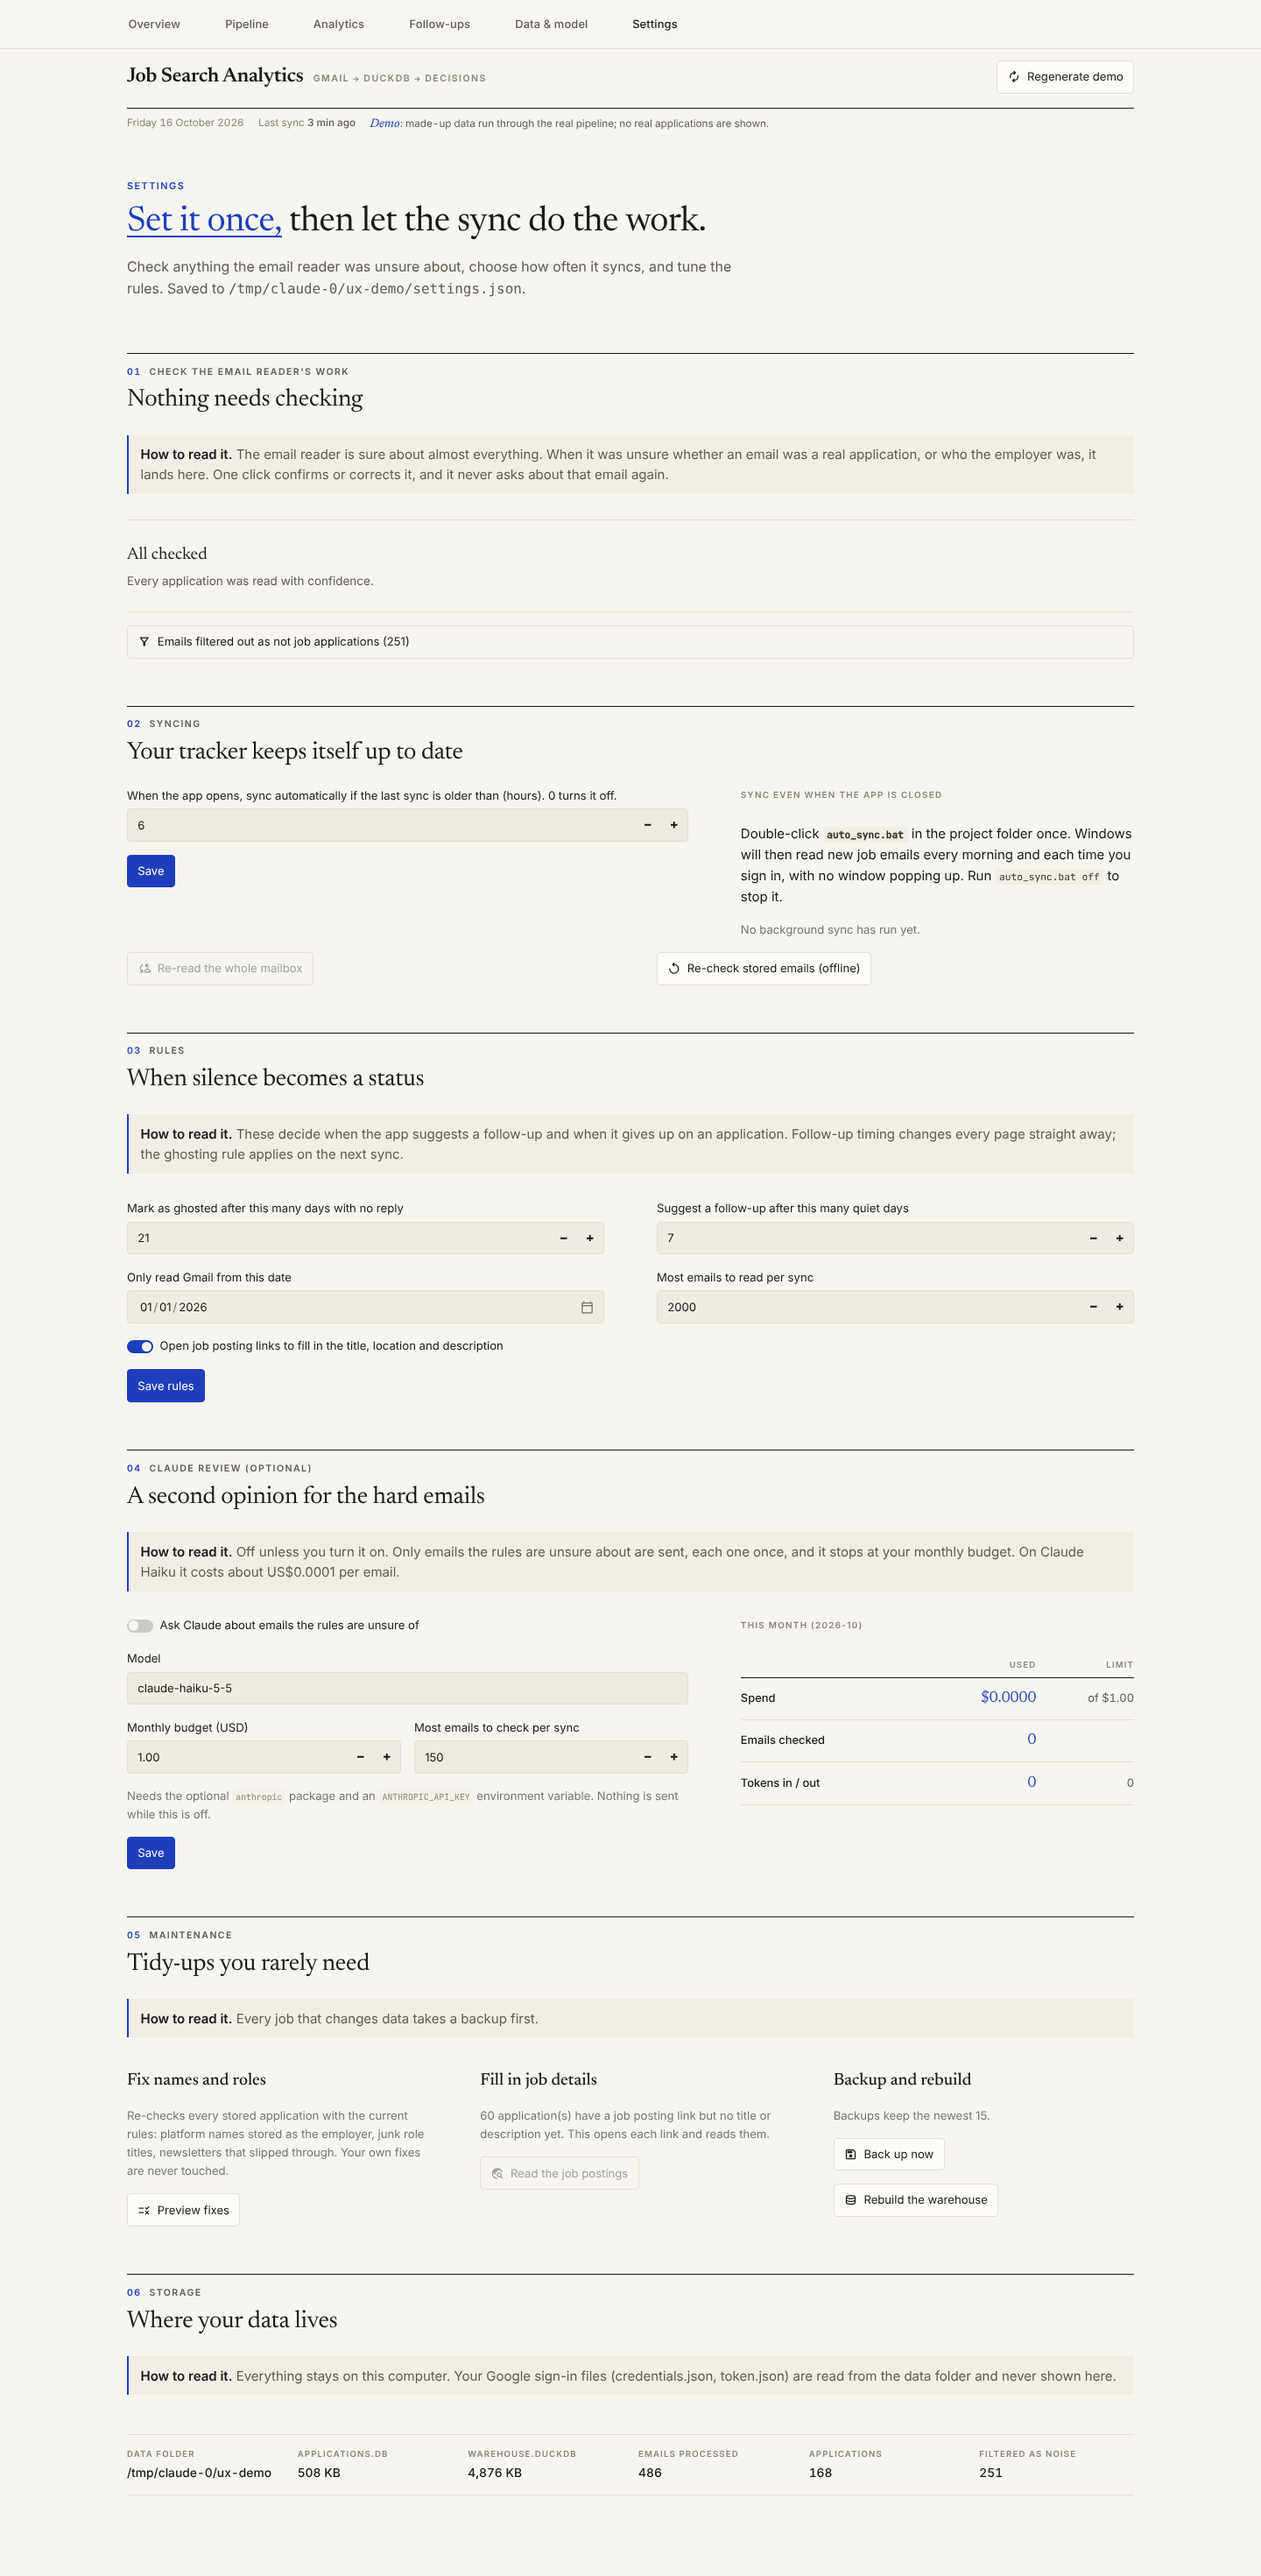
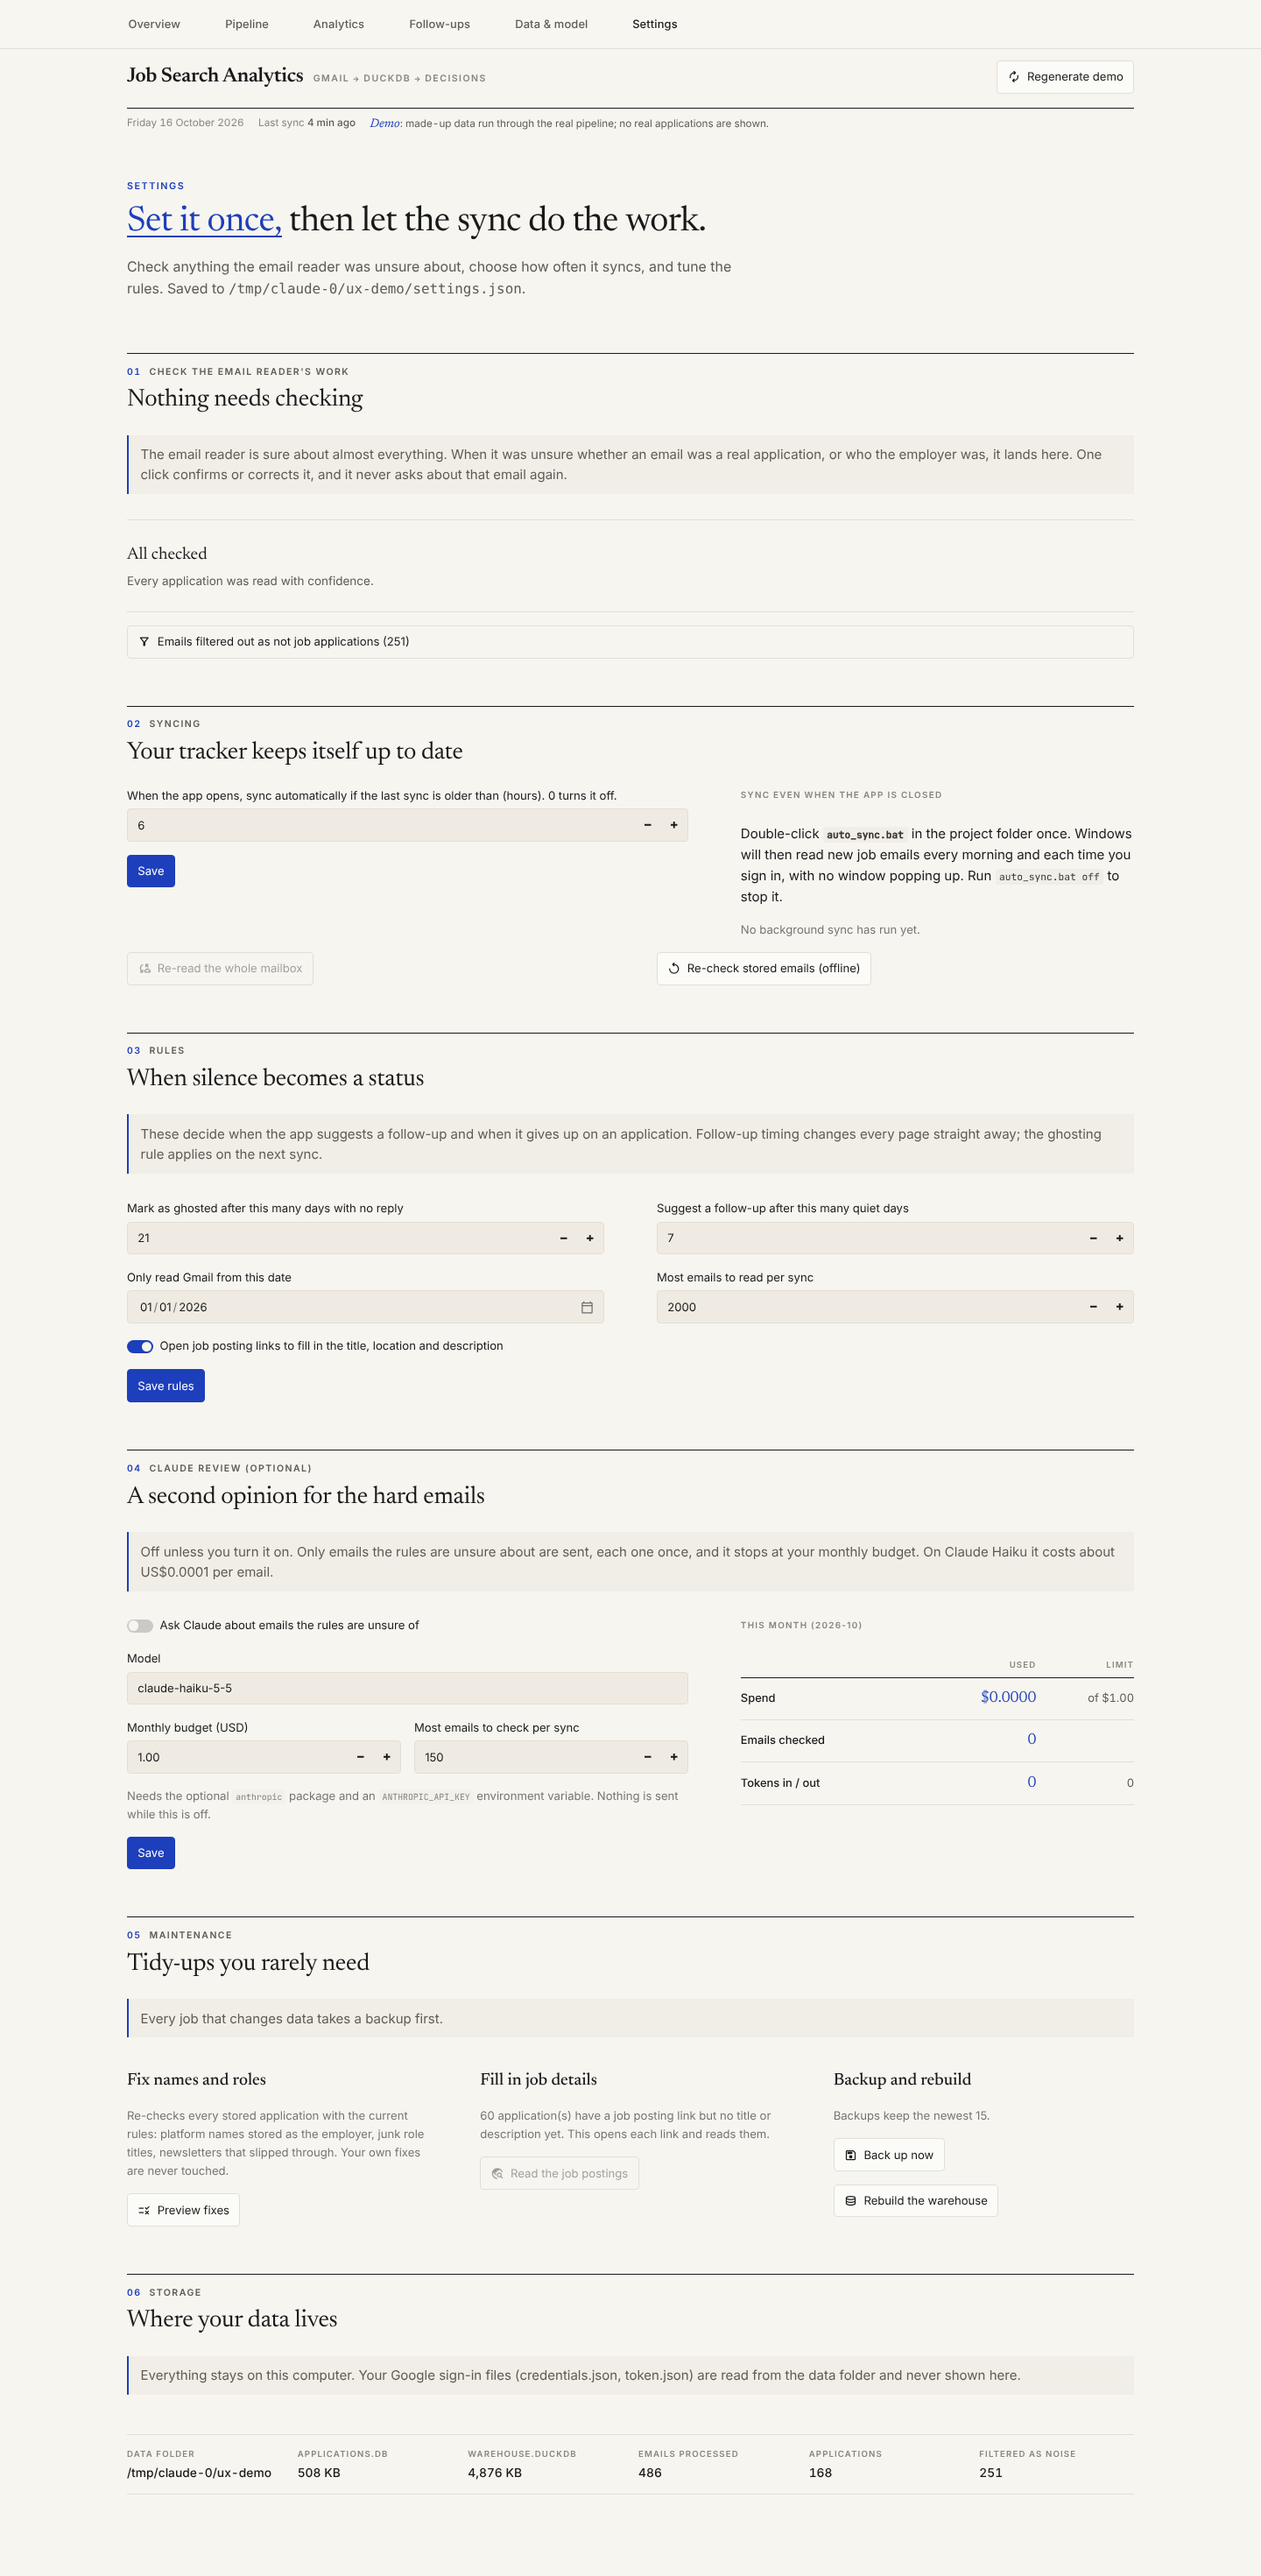
Settings: plain guidance notes instead of chart-reading labels

diff --git a/app/views/settings.py b/app/views/settings.py
@@ -41,7 +41,7 @@ noise = repo.noise()
 with ui.section(1, "Check the email reader's work",
                 f"{len(queue)} email{'s' if len(queue) != 1 else ''} worth a quick look"
                 if queue else "Nothing needs checking"):
-    ui.explain("The email reader is sure about almost everything. When it was unsure whether "
+    ui.aside("The email reader is sure about almost everything. When it was unsure whether "
                "an email was a real application, or who the employer was, it lands here. One "
                "click confirms or corrects it, and it never asks about that email again.")
     if not queue:
@@ -135,7 +135,7 @@ with ui.section(2, "Syncing", "Your tracker keeps itself up to date"):
 
 # ---------------------------------------------------------------- rules
 with ui.section(3, "Rules", "When silence becomes a status"), st.form("rules", border=False):
-    ui.explain("These decide when the app suggests a follow-up and when it gives up on an "
+    ui.aside("These decide when the app suggests a follow-up and when it gives up on an "
                "application. Follow-up timing changes every page straight away; the ghosting "
                "rule applies on the next sync.")
     c1, c2 = st.columns(2, gap="large")
@@ -161,7 +161,7 @@ with ui.section(3, "Rules", "When silence becomes a status"), st.form("rules", b
 # ---------------------------------------------------------------- Claude review
 spend = repo.llm_spend()
 with ui.section(4, "Claude review (optional)", "A second opinion for the hard emails"):
-    ui.explain("Off unless you turn it on. Only emails the rules are unsure about are sent, "
+    ui.aside("Off unless you turn it on. Only emails the rules are unsure about are sent, "
                "each one once, and it stops at your monthly budget. On Claude Haiku it costs "
                "about US$0.0001 per email.")
     left, right = st.columns([7, 5], gap="large")
@@ -189,7 +189,7 @@ with ui.section(4, "Claude review (optional)", "A second opinion for the hard em
 
 # ---------------------------------------------------------------- maintenance
 with ui.section(5, "Maintenance", "Tidy-ups you rarely need"):
-    ui.explain("Every job that changes data takes a backup first.")
+    ui.aside("Every job that changes data takes a backup first.")
     c1, c2, c3 = st.columns(3, gap="large")
     with c1:
         ui.subhead("Fix names and roles")
@@ -255,7 +255,7 @@ def _size(path: Path) -> str:
 
 
 with ui.section(6, "Storage", "Where your data lives"):
-    ui.explain("Everything stays on this computer. Your Google sign-in files (credentials.json, "
+    ui.aside("Everything stays on this computer. Your Google sign-in files (credentials.json, "
                "token.json) are read from the data folder and never shown here.")
     ui.facts([
         ("Data folder", str(s.data_dir)),

diff --git a/app/ui/components.py b/app/ui/components.py
@@ -226,6 +226,11 @@ def explain(how: str, means: str = "") -> None:
     render(f'<div class="jt-explain"><p><b>How to read it.</b> {how}</p>{means_html}</div>')
 
 
+def aside(text_html: str) -> None:
+    """The same quiet box as ``explain`` for plain guidance that is not about a chart."""
+    render(f'<div class="jt-explain"><p>{text_html}</p></div>')
+
+
 def term(word: str, meaning: str) -> str:
     """A word with a dotted underline that explains itself on hover."""
     return f'<abbr class="jt-term" title="{esc(meaning)}">{esc(word)}</abbr>'
